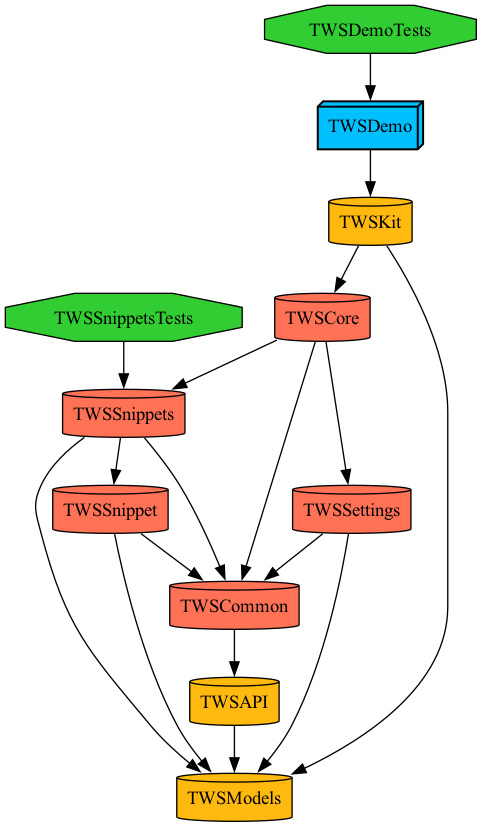
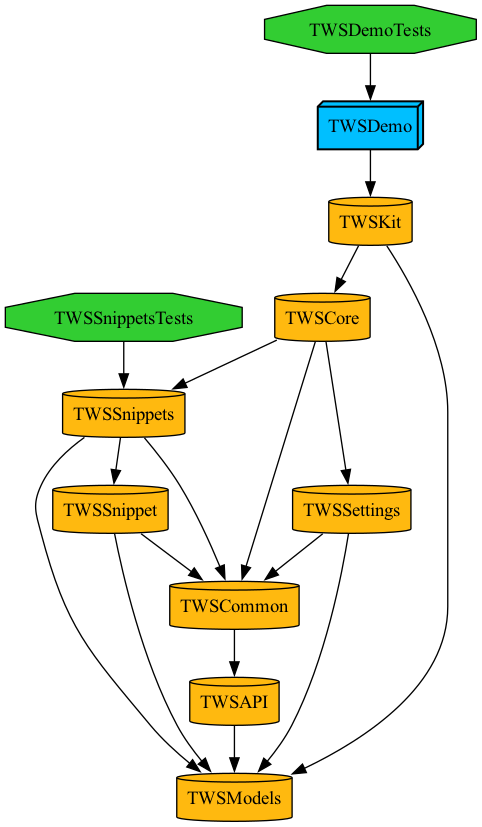
Fixed: Swifthced from static frameworks back to dynamic ones: https://github.com/tuist/tuist/issues/6339

diff --git a/Project.swift b/Project.swift
@@ -81,7 +81,7 @@ let project = Project(
         .target(
             name: "TWSCore",
             destinations: .iOS,
-            product: .staticFramework,
+            product: .framework,
             bundleId: "com.inova.twscore",
             deploymentTargets: .iOS(deploymentTarget()),
             sources: ["TWSCore/Sources/**"],
@@ -101,7 +101,7 @@ let project = Project(
         .target(
             name: "TWSSnippets",
             destinations: .iOS,
-            product: .staticFramework,
+            product: .framework,
             bundleId: "com.inova.twssnippets",
             deploymentTargets: .iOS(deploymentTarget()),
             sources: ["TWSSnippets/Sources/**"],
@@ -141,7 +141,7 @@ let project = Project(
         .target(
             name: "TWSSnippet",
             destinations: .iOS,
-            product: .staticFramework,
+            product: .framework,
             bundleId: "com.inova.twssnippet",
             deploymentTargets: .iOS(deploymentTarget()),
             sources: ["TWSSnippet/Sources/**"],
@@ -160,7 +160,7 @@ let project = Project(
         .target(
             name: "TWSSettings",
             destinations: .iOS,
-            product: .staticFramework,
+            product: .framework,
             bundleId: "com.inova.twssettings",
             deploymentTargets: .iOS(deploymentTarget()),
             sources: ["TWSSettings/Sources/**"],
@@ -214,7 +214,7 @@ let project = Project(
         .target(
             name: "TWSCommon",
             destinations: .iOS,
-            product: .staticFramework,
+            product: .framework,
             bundleId: "com.inova.twscommon",
             deploymentTargets: .iOS(deploymentTarget()),
             sources: ["TWSCommon/Sources/**"],

diff --git a/Tuist/Package.swift b/Tuist/Package.swift
@@ -6,8 +6,21 @@ import PackageDescription
     import ProjectDescriptionHelpers
 
     let packageSettings = PackageSettings(
-        productTypes: [:
-//            "ComposableArchitecture": .framework
+        productTypes: [
+            "ComposableArchitecture": .framework,
+            "Dependencies": .framework,
+            "Clocks": .framework,
+            "ConcurrencyExtras": .framework,
+            "CombineSchedulers": .framework,
+            "IdentifiedCollections": .framework,
+            "OrderedCollections": .framework,
+            "_CollectionsUtilities": .framework,
+            "DependenciesMacros": .framework,
+            "SwiftUINavigationCore": .framework,
+            "Perception": .framework,
+            "CasePaths": .framework,
+            "CustomDump": .framework,
+            "XCTestDynamicOverlay": .framework
         ],
         baseSettings: .settings(
             configurations: [

diff --git a/TWSKit/Sources/TWSKit.swift b/TWSKit/Sources/TWSKit.swift
@@ -4,9 +4,6 @@ import TWSModels
 @_implementationOnly import TWSCore
 @_implementationOnly import ComposableArchitecture
 
-// TODO: Switch back to dynamic frameworks
-// https://github.com/tuist/tuist/issues/6339
-
 public class TWSManager {
 
     private let store: StoreOf<TWSCoreFeature>
